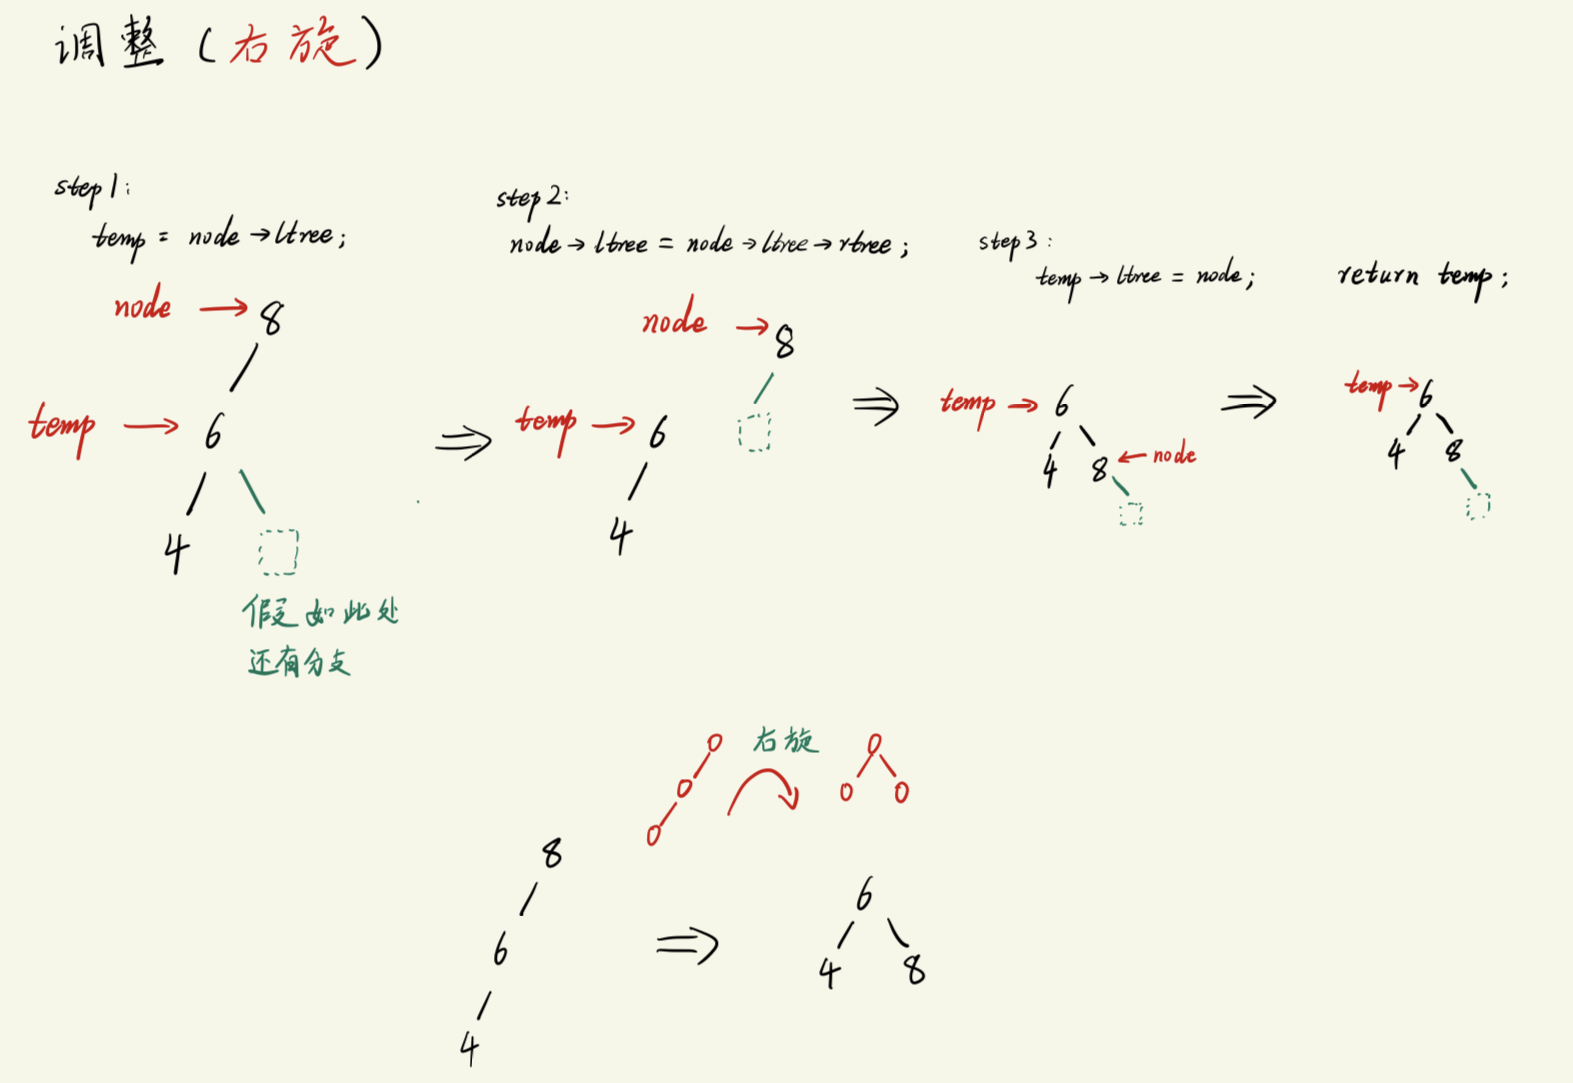
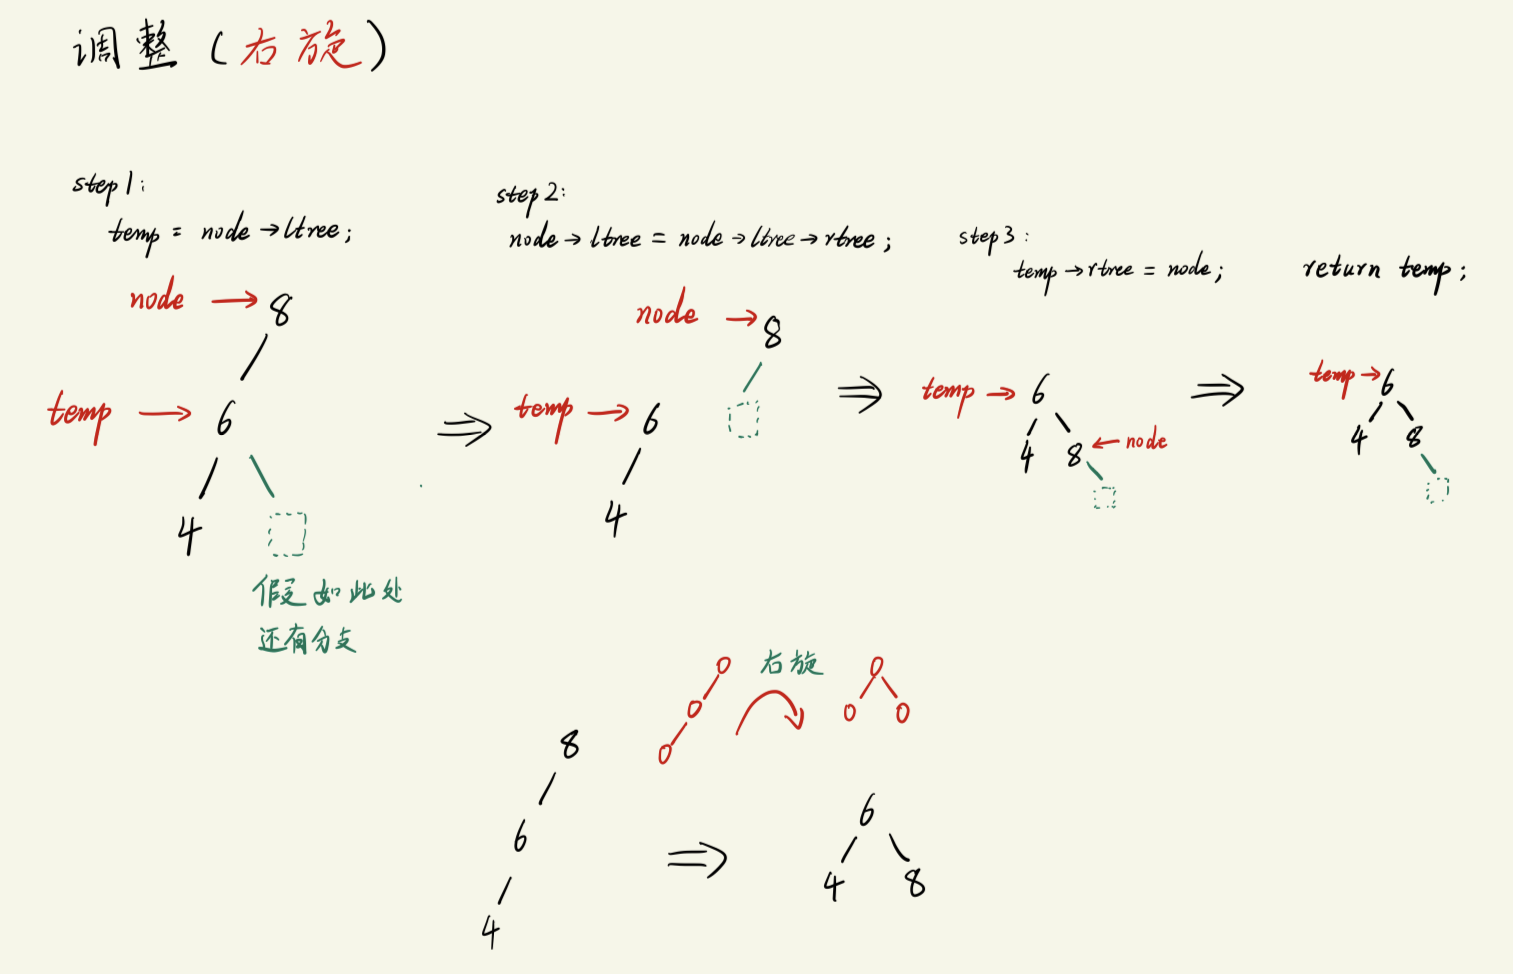
查找: 测试平衡二叉搜索树代码的创建&搜索功能

diff --git a/数据结构--查找/example_code/avltree.c b/数据结构--查找/example_code/avltree.c
@@ -14,6 +14,8 @@ struct AVLTree_node
 struct AVLTree_node * create_avltree(unsigned int arr[], int n);
 struct AVLTree_node * insert_avltree(struct AVLTree_node *T, unsigned int elem);
 void in_order(struct AVLTree_node *tree);                    // 中序遍历
+int search_avltree(struct AVLTree_node *tree, unsigned int num);     // 在二叉搜索树进行搜索
+
 int GetAVLTreeHeight(struct AVLTree_node * tree);            // 统计二叉树高度
 struct AVLTree_node * LL_Rotation(struct AVLTree_node *node);// LL型最小不平衡子树 ==> 右旋
 struct AVLTree_node * RR_Rotation(struct AVLTree_node *node);// RR型最小不平衡子树 ==> 左旋
@@ -33,6 +35,33 @@ int main(void)
     in_order(mytree);
     printf("\n");
     
+
+    // 从二叉搜索树中查找指定元素
+    printf("Please enter a number you want to find in AVLtree: ");
+    scanf("%d", &num);
+    if (search_avltree(mytree, num)){
+        printf("Find %d in mytree.\n", num);
+    }
+    else{
+        printf("Cannot not find %d in mytree.\n", num);
+    }
+
+    // 往二叉搜索树中添加节点
+    printf("Please enter a number you want to insert to the AVLTree: ");
+    scanf("%d", &num);
+    mytree = insert_avltree(mytree, num);
+    in_order(mytree);
+    printf("\n");
+
+    printf("mytree->elem = %d\n", mytree->elem);  // 加入前面插入了100, 此时应该为22
+    printf("mytree->ltree->elem = %d\n", mytree->ltree->elem);
+    printf("mytree->rtree->elem = %d\n", mytree->rtree->elem);
+    printf("mytree->ltree->ltree->elem = %d\n", mytree->ltree->ltree->elem);
+    printf("mytree->rtree->rtree->elem = %d\n", mytree->rtree->rtree->elem);
+    printf("mytree->ltree->ltree->ltree->elem = %d\n", mytree->ltree->ltree->ltree->elem);  // 这个应该为9
+    printf("mytree->rtree->rtree->rtree->elem = %d\n", mytree->rtree->rtree->rtree->elem);  // 这个应该为100
+
+
     return 0;
 }
 
@@ -59,7 +88,7 @@ struct AVLTree_node * insert_avltree(struct AVLTree_node *T, unsigned int elem)
     else if(elem < T->elem){        // 假如传进来的不是空树, 则比较一下elem与当前(子树)根节点的大小, 从而确定把它放到左子树还是右子树位置
         T->ltree = insert_avltree(T->ltree, elem);      // 利用递归的思想: 此时 ltree 必然是空树, 会直接走上面的if分支
 
-        // 判断插入节点之后是否平衡
+        // 判断插入节点之后是否平衡(注意: 如果不平衡, 此时的T指针恰好指向失衡点)
         if(GetAVLTreeHeight(T->ltree) - GetAVLTreeHeight(T->rtree) > 1){
             if(elem < T->ltree->elem){  // 通过失衡点到新增节点的第二路径节点大小来区分是LL型还是LR型
                 // 调整平衡 (LL型) ==> 右旋
@@ -137,8 +166,8 @@ struct AVLTree_node * LL_Rotation(struct AVLTree_node *node)
     // step2: 将 node的左子树的右子树 挪动到 node的左子树位置(第一步已经备份过地址, 这里可以安全地覆盖)
     node->ltree = node->ltree->rtree;
 
-    // step3: 让 temp的左子树 设置为 node 节点
-    temp->ltree = node;
+    // step3: 让 temp的右子树 设置为 node 节点
+    temp->rtree = node;
 
     return temp;
 }
@@ -180,3 +209,26 @@ struct AVLTree_node * RL_Rotation(struct AVLTree_node *node)
 
     return node;
 }
+
+int search_avltree(struct AVLTree_node *tree, unsigned int num)
+{
+    struct AVLTree_node *p = tree;       // 指向当前遍历的节点
+
+    while(p != NULL){
+        if(num == p->elem){             // 找到想要的元素
+            return 1;
+        }
+        else if(num < p->elem){         // 目标位于左子树
+            p = p->ltree;               // p更新到左子树的根节点
+        }
+        else{
+            p = p->rtree;               // 目标位于右子树
+        }
+    }
+    return 0;
+}
+
+
+
+
+

diff --git a/数据结构--查找/查找_平衡二叉搜索树.md b/数据结构--查找/查找_平衡二叉搜索树.md
@@ -113,8 +113,8 @@ struct AVLTree_node * LL_Rotation(struct AVLTree_node *node)
     // step2: 将 node的左子树的右子树 挪动到 node的左子树位置(第一步已经备份过地址, 这里可以安全地覆盖)
     node->ltree = node->ltree->rtree;
 
-    // step3: 让 temp的左子树 设置为 node 节点
-    temp->ltree = node;
+    // step3: 让 temp的右子树 设置为 node 节点
+    temp->rtree = node;
 
     return temp;
 }
@@ -197,3 +197,251 @@ struct AVLTree_node * RL_Rotation(struct AVLTree_node *node)
     return node;
 }
 ```
+
+--------------------------------------------------
+
+### 测试平衡二叉树代码的创建&搜索功能
+测试用的数组为:
+```txt
+37, 22, 11, 82, 67, 9, 45, 91, 33, 52
+```
+
+构建平衡二叉搜素树的过程图解:
+![](查找_平衡二叉搜索树_images/平衡二叉搜索树_代码测试_二叉树构建过程图示.png)
+
+完整代码:
+```c
+#include <stdio.h>
+#include <stdlib.h>
+
+#define SIZE 10
+
+// ------- 定义二叉查找树的节点结构体 ----------
+struct AVLTree_node
+{
+    unsigned int elem;
+    struct AVLTree_node *ltree, *rtree;
+};
+
+// -------------- 函数声明 ----------
+struct AVLTree_node * create_avltree(unsigned int arr[], int n);
+struct AVLTree_node * insert_avltree(struct AVLTree_node *T, unsigned int elem);
+void in_order(struct AVLTree_node *tree);                    // 中序遍历
+int search_avltree(struct AVLTree_node *tree, unsigned int num);     // 在二叉搜索树进行搜索
+
+int GetAVLTreeHeight(struct AVLTree_node * tree);            // 统计二叉树高度
+struct AVLTree_node * LL_Rotation(struct AVLTree_node *node);// LL型最小不平衡子树 ==> 右旋
+struct AVLTree_node * RR_Rotation(struct AVLTree_node *node);// RR型最小不平衡子树 ==> 左旋
+struct AVLTree_node * LR_Rotation(struct AVLTree_node *node);// LR型最小不平衡子树 ==> 先左旋, 再右旋
+struct AVLTree_node * RL_Rotation(struct AVLTree_node *node);// RL型最小不平衡子树 ==> 先右旋, 再左旋
+
+// ------------- main -------------
+int main(void)
+{
+    unsigned int arr[SIZE] = {37, 22, 11, 82, 67, 9, 45, 91, 33, 52};
+    struct AVLTree_node *mytree = NULL;
+    unsigned int num;
+
+    mytree = create_avltree(arr, SIZE);
+
+    // 显式一下二叉树 -- 通过中序遍历
+    in_order(mytree);
+    printf("\n");
+    
+
+    // 从二叉搜索树中查找指定元素
+    printf("Please enter a number you want to find in AVLtree: ");
+    scanf("%d", &num);
+    if (search_avltree(mytree, num)){
+        printf("Find %d in mytree.\n", num);
+    }
+    else{
+        printf("Cannot not find %d in mytree.\n", num);
+    }
+
+    // 往二叉搜索树中添加节点
+    printf("Please enter a number you want to insert to the AVLTree: ");
+    scanf("%d", &num);
+    mytree = insert_avltree(mytree, num);
+    in_order(mytree);
+    printf("\n");
+
+    printf("mytree->elem = %d\n", mytree->elem);  // 加入前面插入了100, 此时应该为22
+    printf("mytree->ltree->elem = %d\n", mytree->ltree->elem);
+    printf("mytree->rtree->elem = %d\n", mytree->rtree->elem);
+    printf("mytree->ltree->ltree->elem = %d\n", mytree->ltree->ltree->elem);
+    printf("mytree->rtree->rtree->elem = %d\n", mytree->rtree->rtree->elem);
+    printf("mytree->ltree->ltree->ltree->elem = %d\n", mytree->ltree->ltree->ltree->elem);  // 这个应该为9
+    printf("mytree->rtree->rtree->rtree->elem = %d\n", mytree->rtree->rtree->rtree->elem);  // 这个应该为100
+
+
+    return 0;
+}
+
+// ---------- 用数组内的元素创建二叉搜索树 -------------
+struct AVLTree_node * create_avltree(unsigned int arr[], int n)
+{
+    struct AVLTree_node *tree = NULL;
+    int i;
+
+    for(i = 0; i < n; i++){
+        tree = insert_avltree(tree, arr[i]);       // 往二叉树中插入新节点(按照大小排序插入子树)
+    }
+    return tree;
+}
+
+struct AVLTree_node * insert_avltree(struct AVLTree_node *T, unsigned int elem)
+{
+    // 如果传进来的是空树, 则: 创建根节点, 然后左右子树设置为空, 再将将它添作为新的树返回
+    if(T == NULL){
+        T = (struct AVLTree_node *)malloc(sizeof(struct AVLTree_node));       // 先开辟空间
+        T->elem = elem;
+        T->ltree = T->rtree = NULL;
+    }
+    else if(elem < T->elem){        // 假如传进来的不是空树, 则比较一下elem与当前(子树)根节点的大小, 从而确定把它放到左子树还是右子树位置
+        T->ltree = insert_avltree(T->ltree, elem);      // 利用递归的思想: 此时 ltree 必然是空树, 会直接走上面的if分支
+
+        // 判断插入节点之后是否平衡(注意: 如果不平衡, 此时的T指针恰好指向失衡点)
+        if(GetAVLTreeHeight(T->ltree) - GetAVLTreeHeight(T->rtree) > 1){
+            if(elem < T->ltree->elem){  // 通过失衡点到新增节点的第二路径节点大小来区分是LL型还是LR型
+                // 调整平衡 (LL型) ==> 右旋
+                T = LL_Rotation(T);
+            }
+            else{
+                // 调整平衡(LR型) ==> 先左旋, 再右旋
+                T = LR_Rotation(T);
+            }
+
+        }
+    }
+    else if(elem > T->elem){        // 假如传进来的不是空树, 则比较一下elem与当前(子树)根节点的大小, 从而确定把它放到左子树还是右子树位置
+        T->rtree = insert_avltree(T->rtree, elem);      // 利用递归的思想: 此时 rtree 必然是空树, 会直接走上面的if分支
+
+        // 判断插入节点之后是否平衡
+        if(GetAVLTreeHeight(T->rtree) - GetAVLTreeHeight(T->ltree) > 1){
+            if(elem > T->rtree->elem){   // 通过失衡点到新增节点的第二路径节点大小来区分是RR型还是RL型
+                // 调整平衡 (RR型) ==> 左旋
+                T = RR_Rotation(T);
+            }
+            else{
+                // 调整平衡 (RL型) ==> 先右旋, 再左旋
+                T = RL_Rotation(T);
+            }
+        }
+    }
+    else{                           // 此时 elem == T->elem
+        printf("Inserting repeat node is forbidden!\n");
+        exit(0);
+    }
+    return T;
+}
+
+void in_order(struct AVLTree_node *tree)
+{
+    if(tree != NULL){
+        // 左子树
+        in_order(tree->ltree);      
+        // 根节点      
+        printf("%d ", tree->elem);
+        // 右子树
+        in_order(tree->rtree);
+    }
+}
+
+// 计算当前输入的树的 "高度"
+int GetAVLTreeHeight(struct AVLTree_node * tree)
+{
+    if(tree != NULL){
+        if(tree->ltree == NULL && tree->rtree == NULL){     // 只有根节点
+            return 1;
+        }
+        else if(GetAVLTreeHeight(tree->rtree) > GetAVLTreeHeight(tree->ltree)){
+            return  GetAVLTreeHeight(tree->rtree) + 1;      // 如果右子树比左子树高, 则直接返回右子树高度 + 1  (由于采用了递归, 高度会被累计的)
+        }
+        else{                                               // 左子树高度 <= 右子树高度 
+            return  GetAVLTreeHeight(tree->ltree) + 1;
+        }
+    }
+    else{
+        return 0;
+    }
+}
+
+struct AVLTree_node * LL_Rotation(struct AVLTree_node *node)
+{
+    struct AVLTree_node * temp = NULL;      // temp 是调整后的新树的根节点
+
+    /* 下面将以 temp节点 为轴, 进行右旋 */
+
+    // step1: node的左子树 赋值给 temp (相当于备份了一下节点的地址)
+    temp = node->ltree;
+
+    // step2: 将 node的左子树的右子树 挪动到 node的左子树位置(第一步已经备份过地址, 这里可以安全地覆盖)
+    node->ltree = node->ltree->rtree;
+
+    // step3: 让 temp的右子树 设置为 node 节点
+    temp->rtree = node;
+
+    return temp;
+}
+
+struct AVLTree_node * RR_Rotation(struct AVLTree_node *node)
+{
+    struct AVLTree_node * temp = NULL;
+
+    // step1: node的右子树赋给 temp
+    temp = node->rtree;
+
+    // step2: node的右子树的左子树 挪动到 node的左子树位置
+    node->rtree = node->rtree->ltree;
+
+    // step3: temp的左子树 设置为 node 节点
+    temp->ltree = node;
+
+    return temp;
+}
+
+struct AVLTree_node * LR_Rotation(struct AVLTree_node *node)
+{
+    // 左子树部分先进行 "左旋"(当做是RR型) ==> 转换为 LL型 
+    node->ltree = RR_Rotation(node->ltree);
+
+    // 再对当前最小不平衡子树进行 "右旋"
+    node = LL_Rotation(node);
+
+    return node;
+}
+
+struct AVLTree_node * RL_Rotation(struct AVLTree_node *node)
+{
+    // 右子树部分先进行 "右旋"(当做是LL型) ==> 转换为 RR型 
+    node->rtree = LL_Rotation(node->rtree);
+
+    // 再对当前最小不平衡子树进行 "左旋"
+    node = RR_Rotation(node);
+
+    return node;
+}
+
+int search_avltree(struct AVLTree_node *tree, unsigned int num)
+{
+    struct AVLTree_node *p = tree;       // 指向当前遍历的节点
+
+    while(p != NULL){
+        if(num == p->elem){             // 找到想要的元素
+            return 1;
+        }
+        else if(num < p->elem){         // 目标位于左子树
+            p = p->ltree;               // p更新到左子树的根节点
+        }
+        else{
+            p = p->rtree;               // 目标位于右子树
+        }
+    }
+    return 0;
+}
+```
+
+程序输出:
+![](查找_平衡二叉搜索树_images/测试平衡二叉搜索树代码_创建与搜索_程序运行结果.png)
+
